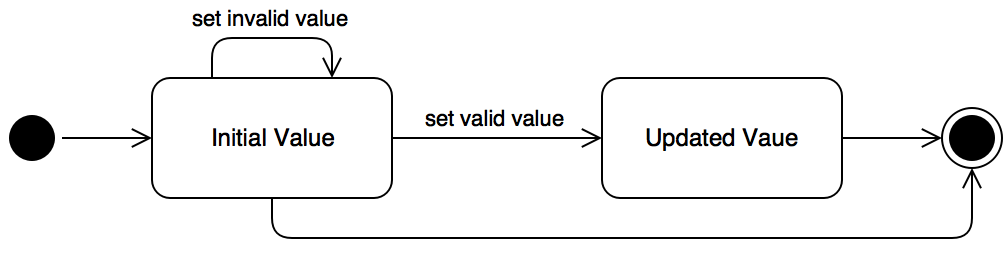
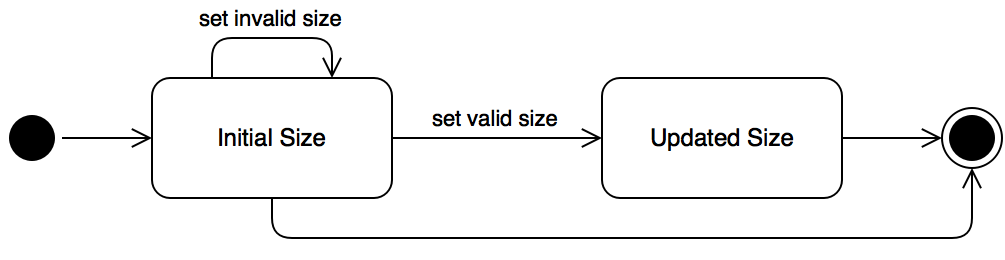
project name state

diff --git a/docs/main.tex b/docs/main.tex
@@ -2039,10 +2039,17 @@ provide a visual representation of the interactions between multiple objects for
 \end{figure}
 
 \subsubsection*{State Machines for Project}
+
 \begin{figure}[H]
 	\centering{}
 	\includegraphics[scale=0.3]{imgs/state/project-enrollment.png}
 	\caption{State Machine for Project Student Enrollment}
+\end{figure}
+
+\begin{figure}[H]
+	\centering{}
+	\includegraphics[scale=0.3]{imgs/state/project-name.png}
+	\caption{State Machine for Project Name}
 \end{figure}
 
 \subsubsection*{State Machines for Group}
